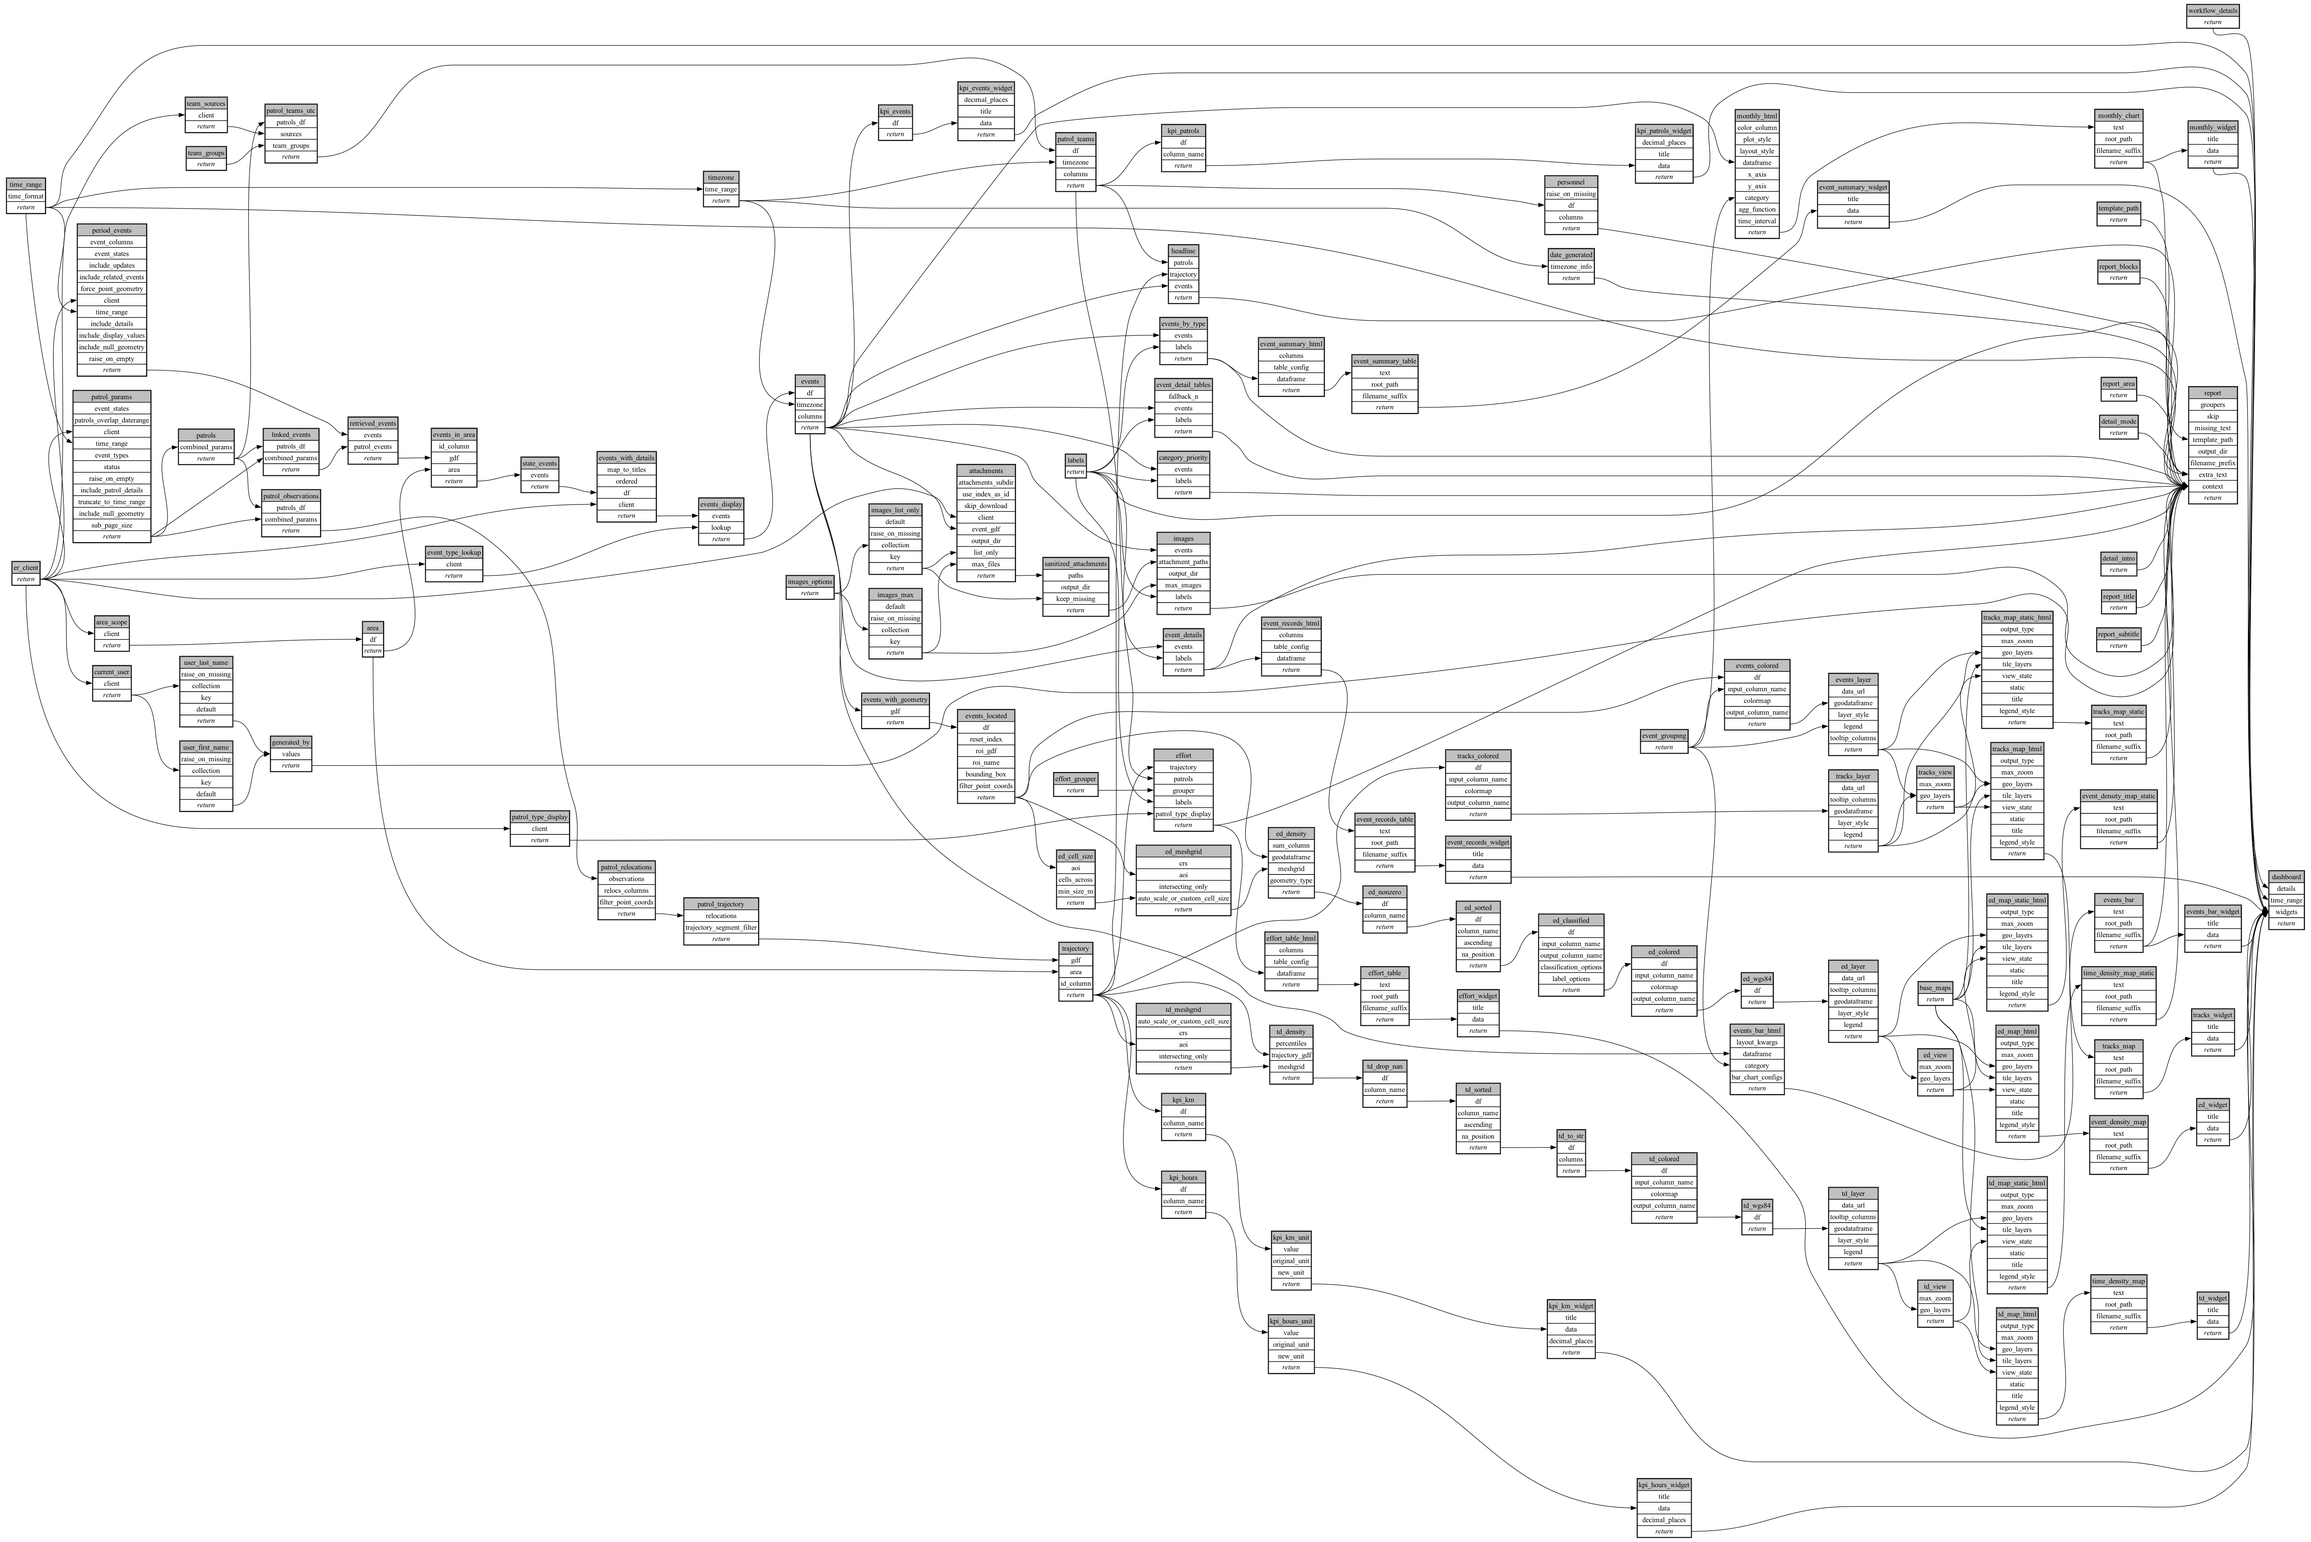
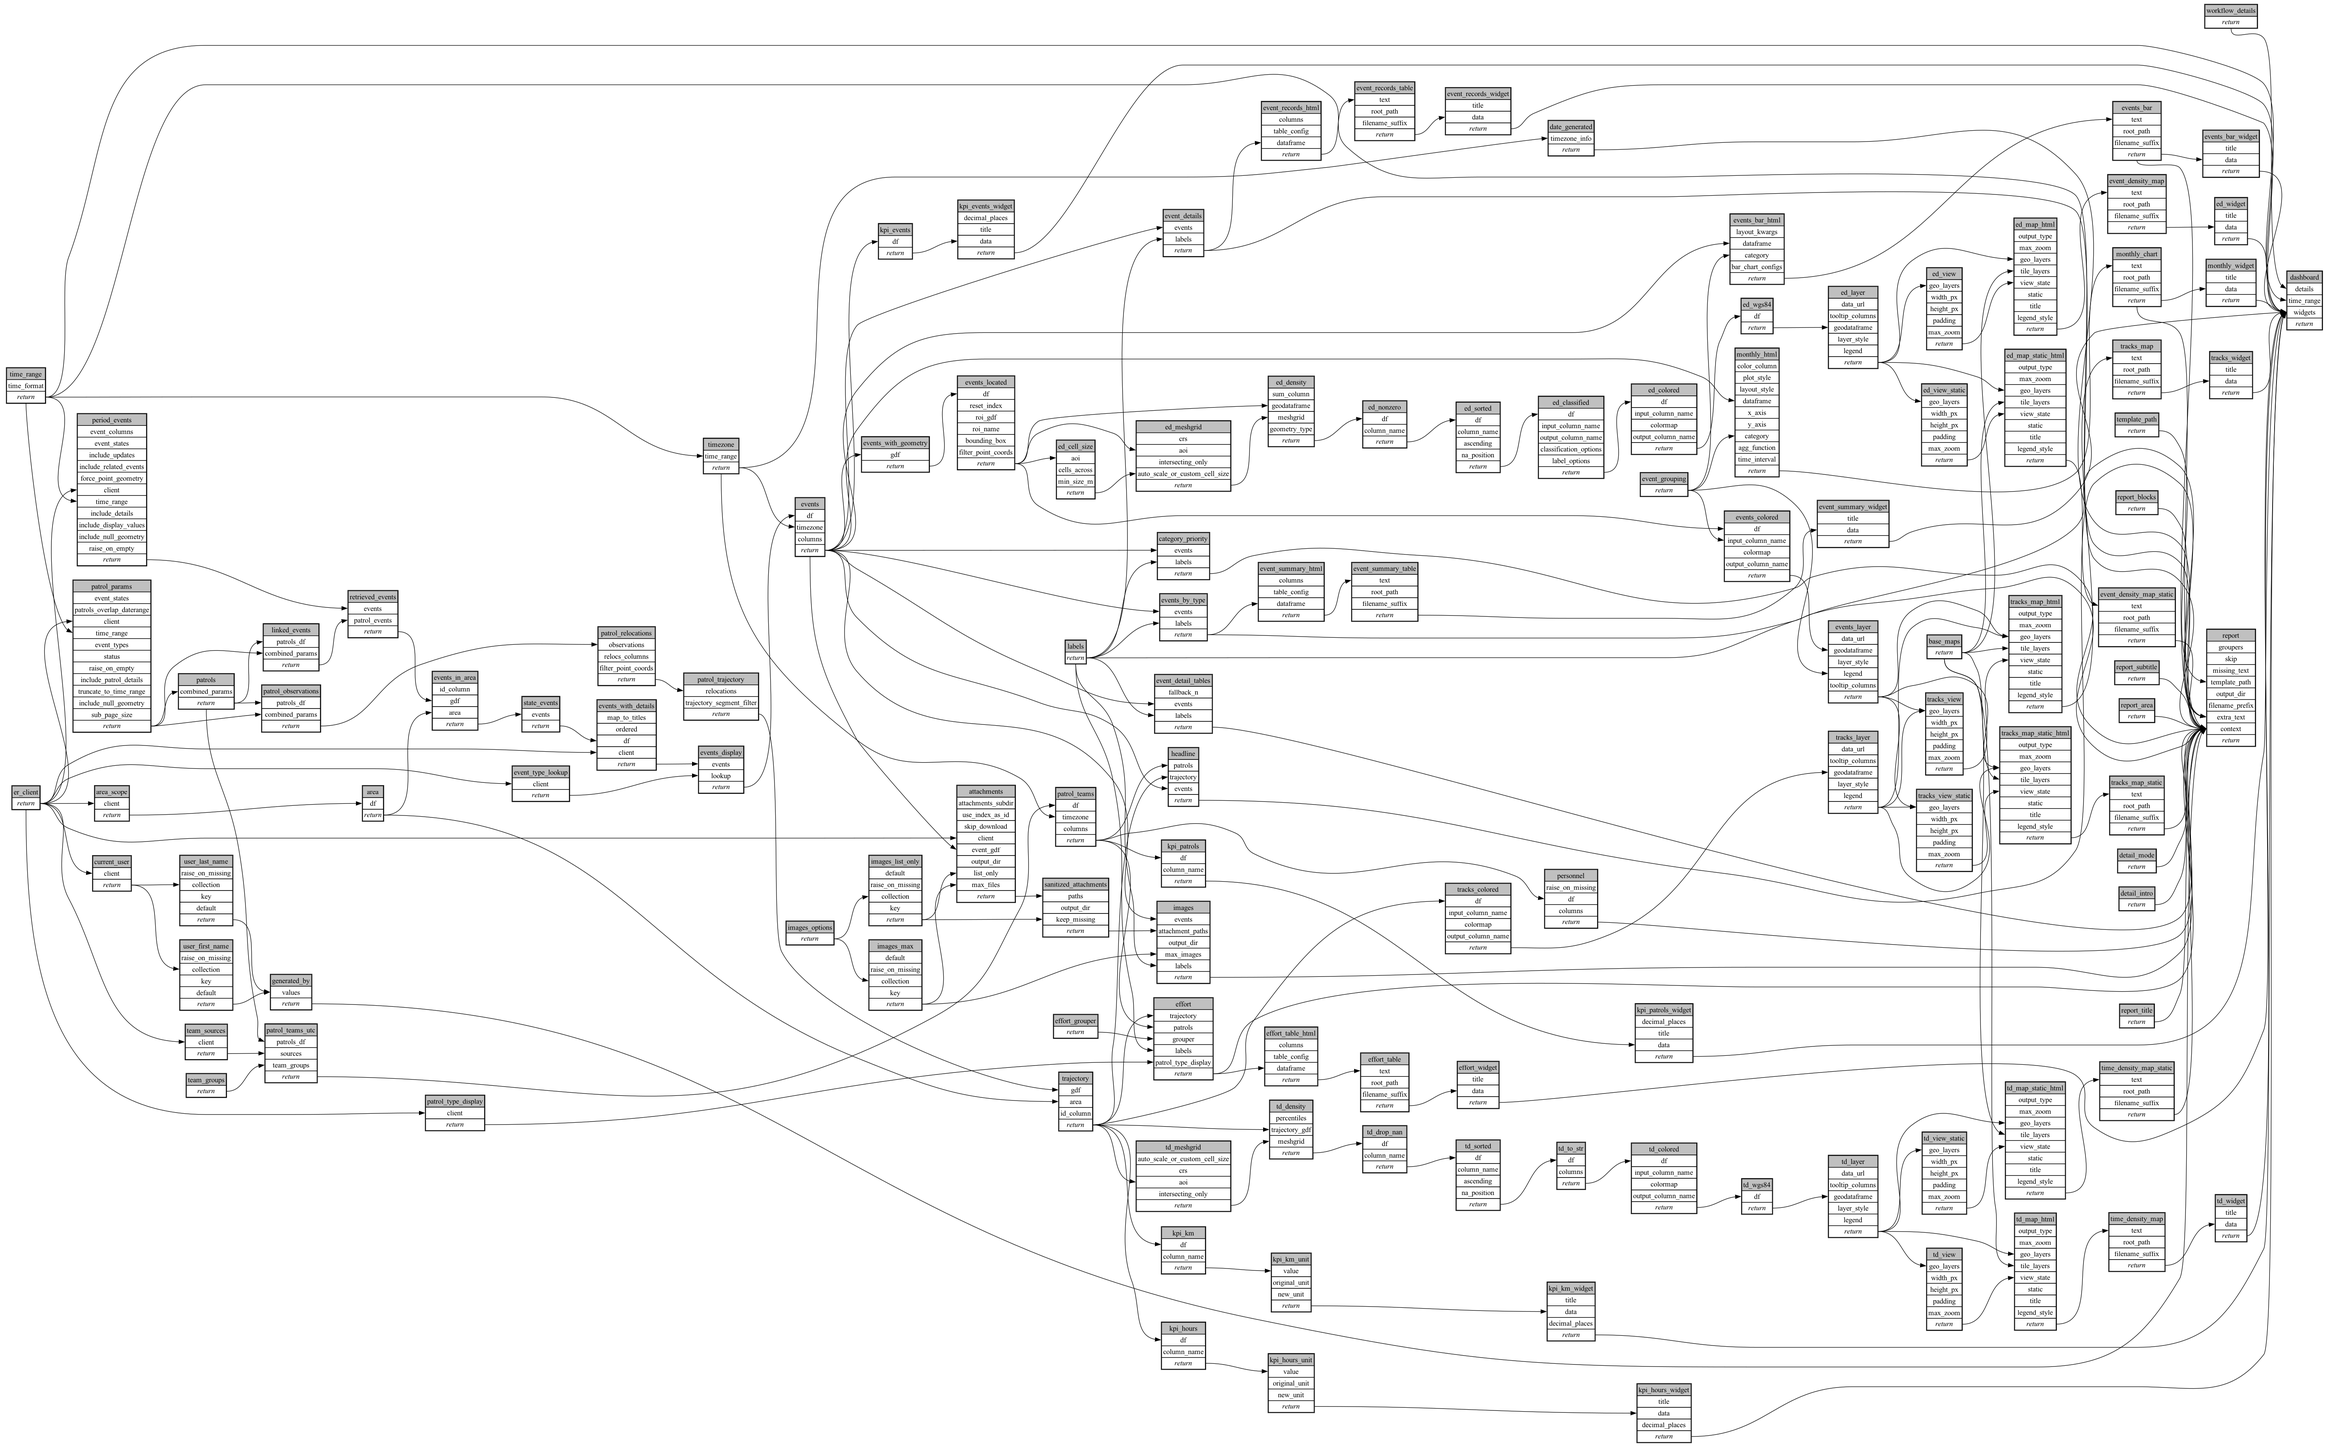
fix: separate dashboard (650x400) and report (1280x720) map views, fitted with 15% margin

diff --git a/workflows/standard_patrol_events/ecoscope-workflows-standard-patrol-events-workflow/ecoscope_workflows_standard_patrol_events_workflow/dags/run_sequential.py b/workflows/standard_patrol_events/ecoscope-workflows-standard-patrol-events-workflow/ecoscope_workflows_standard_patrol_events_workflow/dags/run_sequential.py
@@ -134,10 +134,8 @@ from ecoscope_workflows_ext_custom.tasks.localization import (
 from ecoscope_workflows_ext_custom.tasks.results import (
     build_image_records as build_image_records,
 )
-from ecoscope_workflows_ext_custom.tasks.results import (
-    compute_fitted_view_state as compute_fitted_view_state,
-)
 from ecoscope_workflows_ext_custom.tasks.results import create_docx as create_docx
+from ecoscope_workflows_ext_custom.tasks.results import fit_view_state as fit_view_state
 from ecoscope_workflows_ext_custom.tasks.skip import skip_to_none as skip_to_none
 from ecoscope_workflows_ext_custom.tasks.spatial_ops import (
     get_area_scope as get_area_scope,
@@ -1117,7 +1115,7 @@ def main(params: dict[str, Any], validate_params_schema: bool = True):
     )
 
     tracks_view = (
-        task(compute_fitted_view_state)
+        task(fit_view_state)
         .validate()
         .set_task_instance_id("tracks_view")
         .handle_errors()
@@ -1130,9 +1128,36 @@ def main(params: dict[str, Any], validate_params_schema: bool = True):
             unpack_depth=1,
         )
         .partial(
-            max_zoom=20,
             geo_layers=[tracks_layer, events_layer],
+            width_px=650,
+            height_px=400,
+            padding=0.15,
+            max_zoom=16,
             **(params.get("tracks_view") or {}),
+        )
+        .call()
+    )
+
+    tracks_view_static = (
+        task(fit_view_state)
+        .validate()
+        .set_task_instance_id("tracks_view_static")
+        .handle_errors()
+        .with_tracing()
+        .skipif(
+            conditions=[
+                any_is_empty_df,
+                any_dependency_skipped,
+            ],
+            unpack_depth=1,
+        )
+        .partial(
+            geo_layers=[tracks_layer, events_layer],
+            width_px=1280,
+            height_px=720,
+            padding=0.15,
+            max_zoom=16,
+            **(params.get("tracks_view_static") or {}),
         )
         .call()
     )
@@ -1204,7 +1229,7 @@ def main(params: dict[str, Any], validate_params_schema: bool = True):
             max_zoom=20,
             geo_layers=[tracks_layer, events_layer],
             tile_layers=base_maps,
-            view_state=tracks_view,
+            view_state=tracks_view_static,
             static=True,
             title=None,
             legend_style={"placement": "bottom-right"},
@@ -1410,7 +1435,7 @@ def main(params: dict[str, Any], validate_params_schema: bool = True):
     )
 
     td_view = (
-        task(compute_fitted_view_state)
+        task(fit_view_state)
         .validate()
         .set_task_instance_id("td_view")
         .handle_errors()
@@ -1422,7 +1447,38 @@ def main(params: dict[str, Any], validate_params_schema: bool = True):
             ],
             unpack_depth=1,
         )
-        .partial(max_zoom=20, geo_layers=[td_layer], **(params.get("td_view") or {}))
+        .partial(
+            geo_layers=[td_layer],
+            width_px=650,
+            height_px=400,
+            padding=0.15,
+            max_zoom=16,
+            **(params.get("td_view") or {}),
+        )
+        .call()
+    )
+
+    td_view_static = (
+        task(fit_view_state)
+        .validate()
+        .set_task_instance_id("td_view_static")
+        .handle_errors()
+        .with_tracing()
+        .skipif(
+            conditions=[
+                any_is_empty_df,
+                any_dependency_skipped,
+            ],
+            unpack_depth=1,
+        )
+        .partial(
+            geo_layers=[td_layer],
+            width_px=1280,
+            height_px=720,
+            padding=0.15,
+            max_zoom=16,
+            **(params.get("td_view_static") or {}),
+        )
         .call()
     )
 
@@ -1493,7 +1549,7 @@ def main(params: dict[str, Any], validate_params_schema: bool = True):
             max_zoom=20,
             geo_layers=[td_layer],
             tile_layers=base_maps,
-            view_state=td_view,
+            view_state=td_view_static,
             static=True,
             title=None,
             legend_style={"placement": "bottom-right"},
@@ -1725,7 +1781,7 @@ def main(params: dict[str, Any], validate_params_schema: bool = True):
     )
 
     ed_view = (
-        task(compute_fitted_view_state)
+        task(fit_view_state)
         .validate()
         .set_task_instance_id("ed_view")
         .handle_errors()
@@ -1737,7 +1793,38 @@ def main(params: dict[str, Any], validate_params_schema: bool = True):
             ],
             unpack_depth=1,
         )
-        .partial(max_zoom=20, geo_layers=[ed_layer], **(params.get("ed_view") or {}))
+        .partial(
+            geo_layers=[ed_layer],
+            width_px=650,
+            height_px=400,
+            padding=0.15,
+            max_zoom=16,
+            **(params.get("ed_view") or {}),
+        )
+        .call()
+    )
+
+    ed_view_static = (
+        task(fit_view_state)
+        .validate()
+        .set_task_instance_id("ed_view_static")
+        .handle_errors()
+        .with_tracing()
+        .skipif(
+            conditions=[
+                any_is_empty_df,
+                any_dependency_skipped,
+            ],
+            unpack_depth=1,
+        )
+        .partial(
+            geo_layers=[ed_layer],
+            width_px=1280,
+            height_px=720,
+            padding=0.15,
+            max_zoom=16,
+            **(params.get("ed_view_static") or {}),
+        )
         .call()
     )
 
@@ -1808,7 +1895,7 @@ def main(params: dict[str, Any], validate_params_schema: bool = True):
             max_zoom=20,
             geo_layers=[ed_layer],
             tile_layers=base_maps,
-            view_state=ed_view,
+            view_state=ed_view_static,
             static=True,
             title=None,
             legend_style={"placement": "bottom-right"},

diff --git a/workflows/standard_patrol_events/ecoscope-workflows-standard-patrol-events-workflow/ecoscope_workflows_standard_patrol_events_workflow/dags/run_sequential_mock_io.py b/workflows/standard_patrol_events/ecoscope-workflows-standard-patrol-events-workflow/ecoscope_workflows_standard_patrol_events_workflow/dags/run_sequential_mock_io.py
@@ -164,9 +164,7 @@ from ecoscope.platform.tasks.transformation import sort_values as sort_values
 from ecoscope_workflows_ext_custom.tasks.analysis import (
     grid_cell_size_for_extent as grid_cell_size_for_extent,
 )
-from ecoscope_workflows_ext_custom.tasks.results import (
-    compute_fitted_view_state as compute_fitted_view_state,
-)
+from ecoscope_workflows_ext_custom.tasks.results import fit_view_state as fit_view_state
 from ecoscope_workflows_ext_custom.tasks.transformation import (
     add_event_display_columns as add_event_display_columns,
 )
@@ -1158,7 +1156,7 @@ def main(params: dict[str, Any], validate_params_schema: bool = True):
     )
 
     tracks_view = (
-        task(compute_fitted_view_state)
+        task(fit_view_state)
         .validate()
         .set_task_instance_id("tracks_view")
         .handle_errors()
@@ -1171,9 +1169,36 @@ def main(params: dict[str, Any], validate_params_schema: bool = True):
             unpack_depth=1,
         )
         .partial(
-            max_zoom=20,
             geo_layers=[tracks_layer, events_layer],
+            width_px=650,
+            height_px=400,
+            padding=0.15,
+            max_zoom=16,
             **(params.get("tracks_view") or {}),
+        )
+        .call()
+    )
+
+    tracks_view_static = (
+        task(fit_view_state)
+        .validate()
+        .set_task_instance_id("tracks_view_static")
+        .handle_errors()
+        .with_tracing()
+        .skipif(
+            conditions=[
+                any_is_empty_df,
+                any_dependency_skipped,
+            ],
+            unpack_depth=1,
+        )
+        .partial(
+            geo_layers=[tracks_layer, events_layer],
+            width_px=1280,
+            height_px=720,
+            padding=0.15,
+            max_zoom=16,
+            **(params.get("tracks_view_static") or {}),
         )
         .call()
     )
@@ -1245,7 +1270,7 @@ def main(params: dict[str, Any], validate_params_schema: bool = True):
             max_zoom=20,
             geo_layers=[tracks_layer, events_layer],
             tile_layers=base_maps,
-            view_state=tracks_view,
+            view_state=tracks_view_static,
             static=True,
             title=None,
             legend_style={"placement": "bottom-right"},
@@ -1451,7 +1476,7 @@ def main(params: dict[str, Any], validate_params_schema: bool = True):
     )
 
     td_view = (
-        task(compute_fitted_view_state)
+        task(fit_view_state)
         .validate()
         .set_task_instance_id("td_view")
         .handle_errors()
@@ -1463,7 +1488,38 @@ def main(params: dict[str, Any], validate_params_schema: bool = True):
             ],
             unpack_depth=1,
         )
-        .partial(max_zoom=20, geo_layers=[td_layer], **(params.get("td_view") or {}))
+        .partial(
+            geo_layers=[td_layer],
+            width_px=650,
+            height_px=400,
+            padding=0.15,
+            max_zoom=16,
+            **(params.get("td_view") or {}),
+        )
+        .call()
+    )
+
+    td_view_static = (
+        task(fit_view_state)
+        .validate()
+        .set_task_instance_id("td_view_static")
+        .handle_errors()
+        .with_tracing()
+        .skipif(
+            conditions=[
+                any_is_empty_df,
+                any_dependency_skipped,
+            ],
+            unpack_depth=1,
+        )
+        .partial(
+            geo_layers=[td_layer],
+            width_px=1280,
+            height_px=720,
+            padding=0.15,
+            max_zoom=16,
+            **(params.get("td_view_static") or {}),
+        )
         .call()
     )
 
@@ -1534,7 +1590,7 @@ def main(params: dict[str, Any], validate_params_schema: bool = True):
             max_zoom=20,
             geo_layers=[td_layer],
             tile_layers=base_maps,
-            view_state=td_view,
+            view_state=td_view_static,
             static=True,
             title=None,
             legend_style={"placement": "bottom-right"},
@@ -1766,7 +1822,7 @@ def main(params: dict[str, Any], validate_params_schema: bool = True):
     )
 
     ed_view = (
-        task(compute_fitted_view_state)
+        task(fit_view_state)
         .validate()
         .set_task_instance_id("ed_view")
         .handle_errors()
@@ -1778,7 +1834,38 @@ def main(params: dict[str, Any], validate_params_schema: bool = True):
             ],
             unpack_depth=1,
         )
-        .partial(max_zoom=20, geo_layers=[ed_layer], **(params.get("ed_view") or {}))
+        .partial(
+            geo_layers=[ed_layer],
+            width_px=650,
+            height_px=400,
+            padding=0.15,
+            max_zoom=16,
+            **(params.get("ed_view") or {}),
+        )
+        .call()
+    )
+
+    ed_view_static = (
+        task(fit_view_state)
+        .validate()
+        .set_task_instance_id("ed_view_static")
+        .handle_errors()
+        .with_tracing()
+        .skipif(
+            conditions=[
+                any_is_empty_df,
+                any_dependency_skipped,
+            ],
+            unpack_depth=1,
+        )
+        .partial(
+            geo_layers=[ed_layer],
+            width_px=1280,
+            height_px=720,
+            padding=0.15,
+            max_zoom=16,
+            **(params.get("ed_view_static") or {}),
+        )
         .call()
     )
 
@@ -1849,7 +1936,7 @@ def main(params: dict[str, Any], validate_params_schema: bool = True):
             max_zoom=20,
             geo_layers=[ed_layer],
             tile_layers=base_maps,
-            view_state=ed_view,
+            view_state=ed_view_static,
             static=True,
             title=None,
             legend_style={"placement": "bottom-right"},

diff --git a/workflows/standard_patrol_events/ecoscope-workflows-standard-patrol-events-workflow/README.md b/workflows/standard_patrol_events/ecoscope-workflows-standard-patrol-events-workflow/README.md
@@ -5,15 +5,15 @@
 
 ```yaml
 # fingerprint:
-artifacts_sha256_basic: d159e971ee352c048b267f62397cc8581b74cd8f518d7da5e9d8f3f4cd3f930e
-artifacts_sha256_strict: c602533004af920af78fb503aeab0a5287d951d3a301da47cc6d25aeb232909b
+artifacts_sha256_basic: 9a0b8e6e9b0c49240b7da8ad2105f82cab9b3d6cc86ae1689529b30ed08f8673
+artifacts_sha256_strict: 4868e0a17ab593b229a42c32cd6a3d396f52d8128be1fb2dc842977555e7c80d
 installed_requirements:
 - channel: https://repo.prefix.dev/ecoscope-workflows/
   name: ecoscope-platform
   version: {version: ==2.28.0}
 - channel: file:///tmp/ecoscope-workflows-custom/release/artifacts/
   name: ecoscope-workflows-ext-custom
-  version: {version: ==0.1.6.dev28+g9c9459de9}
+  version: {version: ==0.1.6.dev31+g60e7cc9a3}
 - channel: file:///tmp/ecoscope-workflows-custom/release/artifacts/
   name: ecoscope-workflows-ext-standard-patrol-events
   version: {version: ==10000.dev15+gb457cea4b.d20261118}
@@ -21,7 +21,7 @@ installed_requirements:
   name: pydeck
   version: {version: ==0.9.2}
 params_sha256: dbed3aa174fce735dc1618490a0379564b3e08011982daf78e8af102a8bb40d5
-spec_sha256: ab43c8162ba6430eaca11c142717a2a18bc0e06ea670cb49dde3d68c6cf21f27
+spec_sha256: 511d228e7ae0e01317e87dc41569c84456947e2b0b8e8b9b4b4c8dddc5222b2b
 
 ```
 
